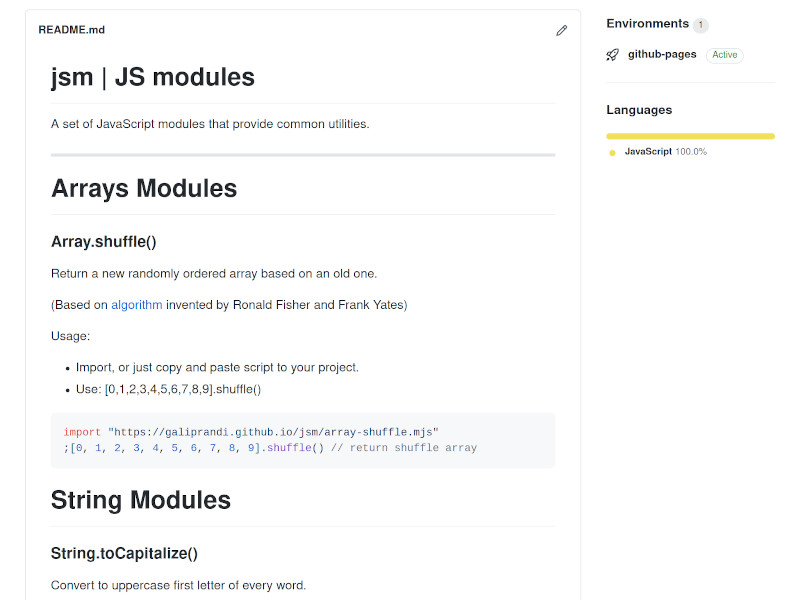
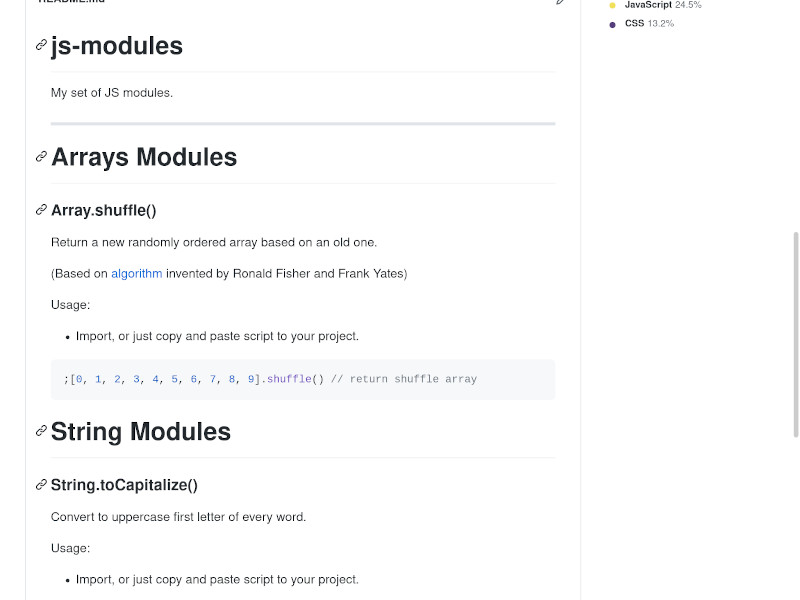
add js-modules

diff --git a/index.html b/index.html
@@ -60,9 +60,9 @@
       function gtag() {
         dataLayer.push(arguments)
       }
-      gtag("js", new Date())
+      gtag('js', new Date())
 
-      gtag("config", "G-CZ03PKC275")
+      gtag('config', 'G-CZ03PKC275')
     </script>
   </head>
   <body>
@@ -401,16 +401,16 @@
               <div class="summary">
                 <h3 class="medium">JS modules</h3>
                 <p>
-                  A set of JavaScript modules that provide common utilities.
+                  My set of JS modules.
                   <br />
                   <b>Tools:</b> Javascript.
                   <br />
                   <b>Github:</b>
                   <a
-                    href="https://github.com/galiprandi/jsm"
+                    href="https://github.com/galiprandi/js-modules"
                     target="_blank"
                     rel="noopener noreferrer"
-                    >github.com/galiprandi/jsm</a
+                    >github.com/galiprandi/js-modules</a
                   >
                 </p>
               </div>
